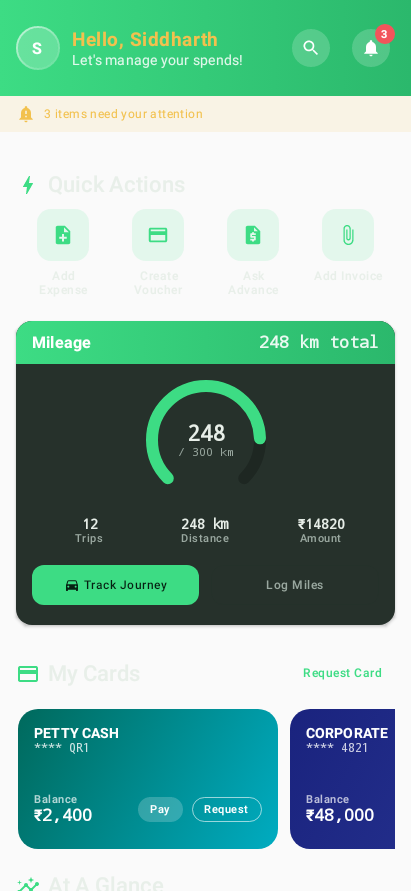
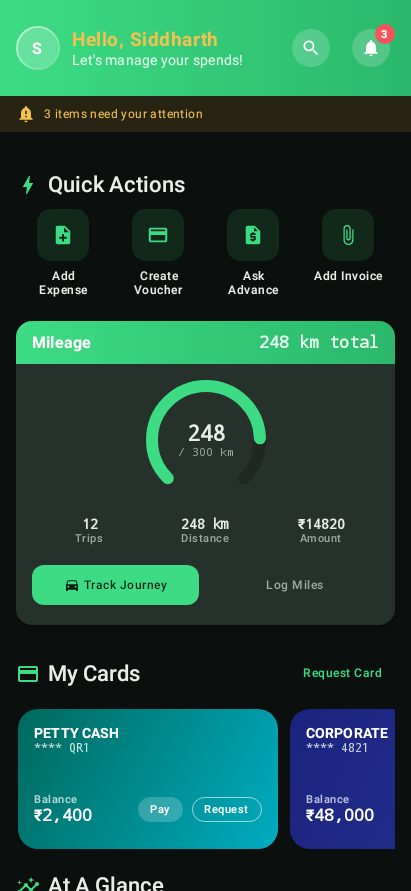
fix(ui): top-level Home & Profile tabs paint their own dark background
Home (HomeScreenContent) and Profile (ProfileScreen) are the two top-level
tabs hosted directly in the shell NavHost rather than via a feature
*HomeScreen Scaffold. Their root (a bare Box/LazyColumn) painted no
background and relied entirely on the host Scaffold's container colour. In
any context without that host -- e.g. the Roborazzi gallery, which wraps the
screen in MileTrackerTheme {} alone -- the scrollable body fell through to
the white canvas, so the screen rendered light (green header over a white
body with faded Quick Actions) while self-backgrounding screens like Track
Miles rendered dark in the same run.

Route both roots through MaterialTheme.colorScheme.background so they render
deep-dark under the Matrix default (and follow the active theme generally),
matching every Scaffold-hosted Level-1 screen. Re-recorded gallery baselines
for both confirm near-black bodies; Bug 5 dashboard layout and the green
brand header are preserved.

diff --git a/app/src/main/java/com/miletracker/ui/home/HomeScreen.kt b/app/src/main/java/com/miletracker/ui/home/HomeScreen.kt
@@ -1,5 +1,6 @@
 package com.miletracker.ui.home
 
+import androidx.compose.foundation.background
 import androidx.compose.foundation.layout.Arrangement
 import androidx.compose.foundation.layout.Box
 import androidx.compose.foundation.layout.Column
@@ -19,6 +20,7 @@ import androidx.compose.material.icons.Icons
 import androidx.compose.material.icons.filled.Bolt
 import androidx.compose.material.icons.filled.CardGiftcard
 import androidx.compose.material.icons.filled.Insights
+import androidx.compose.material3.MaterialTheme
 import androidx.compose.material3.SnackbarHost
 import androidx.compose.material3.SnackbarHostState
 import androidx.compose.runtime.Composable
@@ -108,7 +110,15 @@ internal fun HomeScreenContent(
     val illustrativeSnackbar: suspend () -> Unit = { snackbarState.showSnackbar("Detail view available in full version.") }
     val paymentsSnackbar: suspend () -> Unit = { snackbarState.showSnackbar("Payments require network in production.") }
 
-    Box(modifier = Modifier.fillMaxSize()) {
+    Box(
+        modifier = Modifier
+            .fillMaxSize()
+            // Top-level tab: own the background so the body renders on the theme surface
+            // (deep-dark under the Matrix default) instead of inheriting whatever the host
+            // happens to paint. Without this the scrollable body is transparent and falls
+            // through to the window/canvas colour.
+            .background(MaterialTheme.colorScheme.background),
+    ) {
         Column(
             modifier = Modifier
                 .fillMaxSize()

diff --git a/feature/profile/src/androidMain/kotlin/com/miletracker/feature/profile/ui/screens/ProfileScreen.kt b/feature/profile/src/androidMain/kotlin/com/miletracker/feature/profile/ui/screens/ProfileScreen.kt
@@ -118,7 +118,12 @@ fun ProfileScreen(
     val state by viewModel.uiState.collectAsStateWithLifecycle()
 
     LazyColumn(
-        modifier = Modifier.fillMaxSize(),
+        // Top-level tab: own the background so the body renders on the theme surface
+        // (deep-dark under the Matrix default) rather than falling through to the
+        // window/canvas colour when no host Scaffold paints behind it.
+        modifier = Modifier
+            .fillMaxSize()
+            .background(MaterialTheme.colorScheme.background),
         // Clearance for the floating bubble bar (content draws behind it).
         contentPadding = PaddingValues(bottom = 140.dp),
         verticalArrangement = Arrangement.spacedBy(DesignTokens.Spacing.l),
